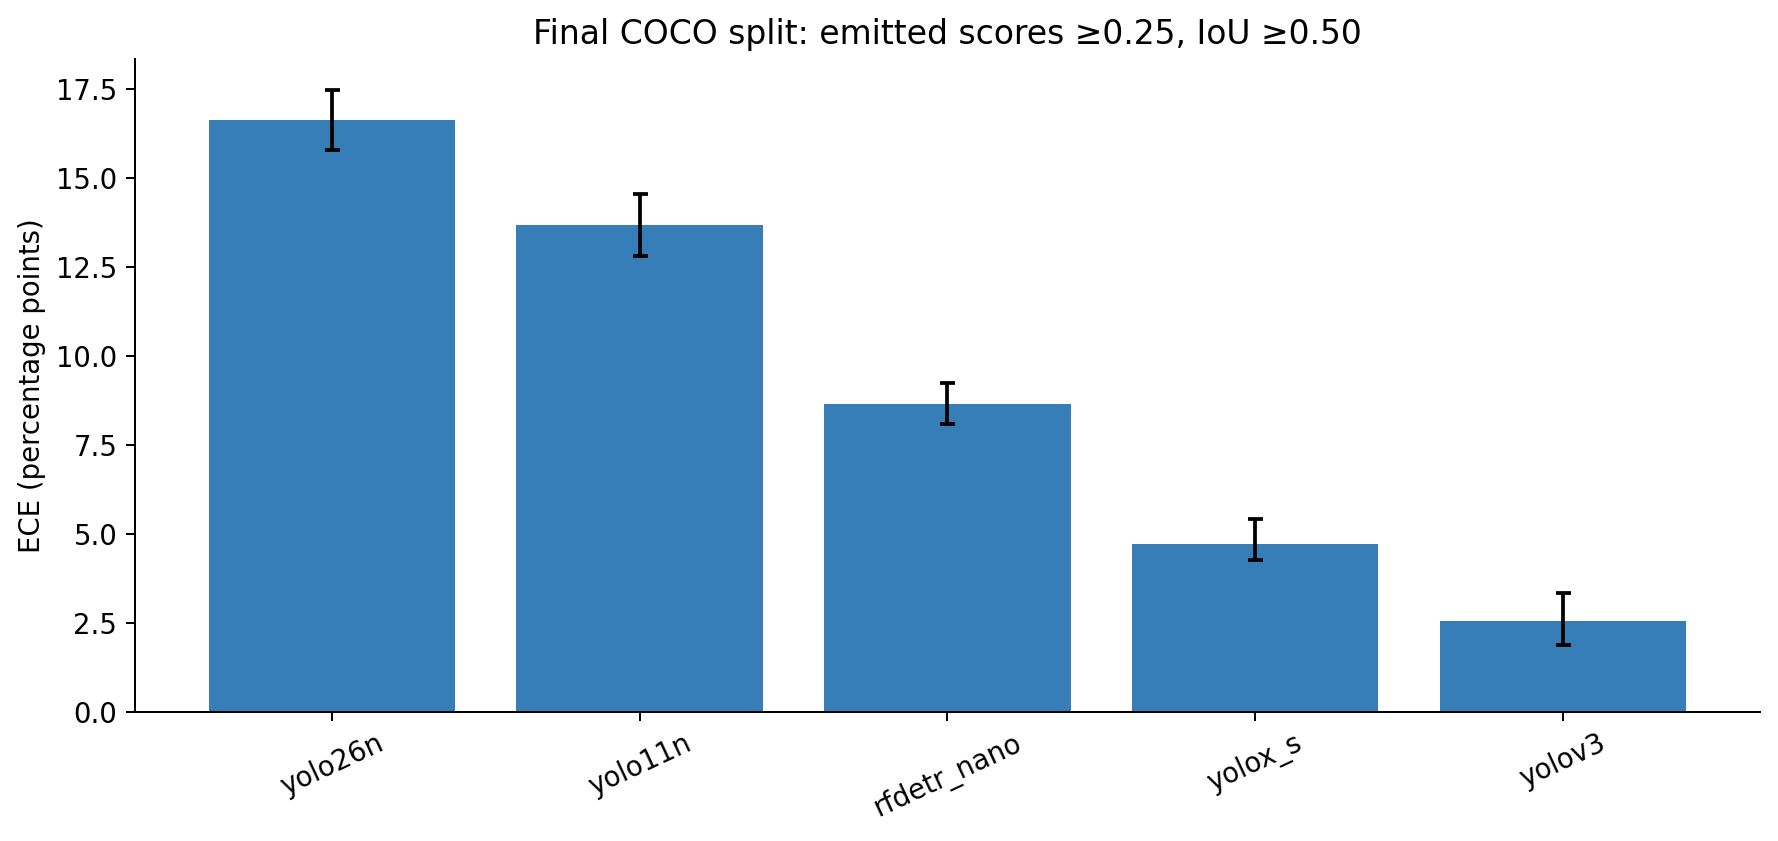
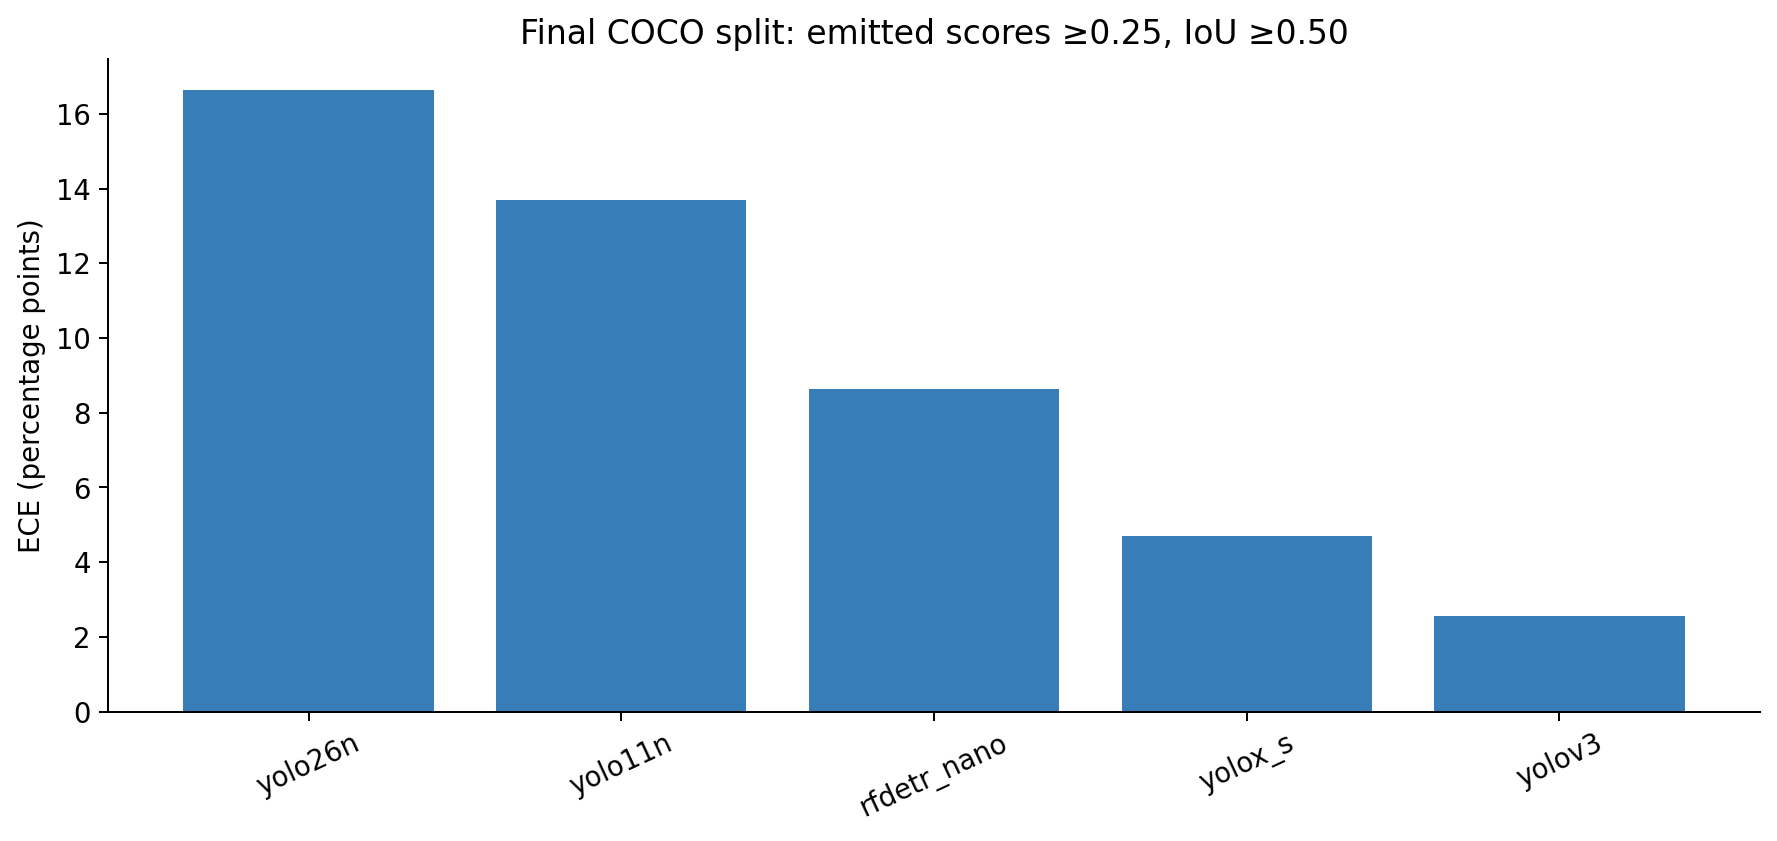
Remove error bars from article ECE comparison chart

diff --git a/src/model_calibration/reporting.py b/src/model_calibration/reporting.py
@@ -27,13 +27,8 @@ def figures(run,output):
         plt.close(fig)
     fig,ax=plt.subplots(figsize=(10,4.8))
     values=np.array([m['primary']['ece'] for m in final])
-    cis=np.array([m['primary']['ci']['ece'] for m in final])
-    # Percentile intervals need not contain the point estimate. Plot endpoints.
     x=np.arange(len(names))
     ax.bar(x,values*100,color='#377eb8')
-    ax.vlines(x,cis[:,0]*100,cis[:,1]*100,color='black')
-    ax.scatter(x,cis[:,0]*100,marker='_',color='black')
-    ax.scatter(x,cis[:,1]*100,marker='_',color='black')
     ax.set(xticks=x,xticklabels=names,ylabel='ECE (percentage points)',title='Final COCO split: emitted scores ≥0.25, IoU ≥0.50')
     ax.tick_params(axis='x',rotation=25)
     save(fig,'calibration_comparison')

diff --git a/article/article.md b/article/article.md
@@ -28,13 +28,13 @@ Each model kept its usual image processing and box filtering. Inference used FP3
 
 Expected calibration error, or ECE, gives one summary of the mismatch. Scores are divided into 15 equal-width groups. Each group’s average confidence is compared with its share of correct detections. ECE combines the absolute gaps, giving larger groups more weight. Lower ECE is better.
 
-![Calibration error for all five detectors, with 95% confidence intervals.](../results/figures/calibration_comparison.png)
+![Calibration error for all five detectors before correction.](../results/figures/calibration_comparison.png)
 
 **YOLOv3** had the lowest final ECE: **2.55 percentage points**. YOLOv3 has lower estimated ECE than all three recent candidates in this run. This resembles [Guo’s finding](https://arxiv.org/html/1706.04599#S3): newer models can be less calibrated than older ones, even when detection or classification improves.
 
 Why might this happen? Guo linked poorer calibration to larger networks, batch normalization, and weaker penalties on large weights. Training can also increase confidence without improving correctness. These are possible explanations, not proven causes here: model sizes and training differ. Guo’s newer classifiers were often overconfident; YOLO26n was underconfident. The similar pattern concerns calibration error, not the direction of the score mismatch.
 
-The error bars come from 1,000 samples drawn by image, keeping all detections from each image together. Nearby estimates should be treated cautiously. Extra checks change the score threshold, overlap requirement, and number of groups. The [full methodology and tables](../README.md) also include recall, negative log likelihood, and Brier score. The latter two measure probability errors in other ways, so the conclusion does not depend only on ECE.
+Confidence intervals in the full tables come from 1,000 samples drawn by image, keeping all detections from each image together. Nearby estimates should be treated cautiously. Extra checks change the score threshold, overlap requirement, and number of groups. The [full methodology and tables](../README.md) also include recall, negative log likelihood, and Brier score. The latter two measure probability errors in other ways, so the conclusion does not depend only on ECE.
 
 ![Before calibration: detection quality versus calibration error, using each model’s original scores.](../results/figures/quality_vs_calibration.png)
 

diff --git a/article/article.template.md b/article/article.template.md
@@ -28,13 +28,13 @@ Each model kept its usual image processing and box filtering. Inference used FP3
 
 Expected calibration error, or ECE, gives one summary of the mismatch. Scores are divided into 15 equal-width groups. Each group’s average confidence is compared with its share of correct detections. ECE combines the absolute gaps, giving larger groups more weight. Lower ECE is better.
 
-![Calibration error for all five detectors, with 95% confidence intervals.]({{figure_prefix}}/calibration_comparison.png)
+![Calibration error for all five detectors before correction.]({{figure_prefix}}/calibration_comparison.png)
 
 **{{best}}** had the lowest final ECE: **{{best_ece}} percentage points**. {{age_result}} This resembles [Guo’s finding](https://arxiv.org/html/1706.04599#S3): newer models can be less calibrated than older ones, even when detection or classification improves.
 
 Why might this happen? Guo linked poorer calibration to larger networks, batch normalization, and weaker penalties on large weights. Training can also increase confidence without improving correctness. These are possible explanations, not proven causes here: model sizes and training differ. Guo’s newer classifiers were often overconfident; YOLO26n was underconfident. The similar pattern concerns calibration error, not the direction of the score mismatch.
 
-The error bars come from 1,000 samples drawn by image, keeping all detections from each image together. Nearby estimates should be treated cautiously. Extra checks change the score threshold, overlap requirement, and number of groups. The [full methodology and tables]({{methodology}}) also include recall, negative log likelihood, and Brier score. The latter two measure probability errors in other ways, so the conclusion does not depend only on ECE.
+Confidence intervals in the full tables come from 1,000 samples drawn by image, keeping all detections from each image together. Nearby estimates should be treated cautiously. Extra checks change the score threshold, overlap requirement, and number of groups. The [full methodology and tables]({{methodology}}) also include recall, negative log likelihood, and Brier score. The latter two measure probability errors in other ways, so the conclusion does not depend only on ECE.
 
 ![Before calibration: detection quality versus calibration error, using each model’s original scores.]({{figure_prefix}}/quality_vs_calibration.png)
 

diff --git a/article/captions.md b/article/captions.md
@@ -1,6 +1,6 @@
 Opening figure: **Average confidence and actual correctness** — Mean original score and observed precision for each checkpoint on the final 2,500 images. Original scores ≥0.25, correct class and COCO IoU ≥0.50, ignored matches excluded. Values are percentages. Agreement of averages alone does not establish calibration within score groups.
 
-1. **Calibration comparison** — Final-partition precision ECE at original scores ≥0.25, correct-class COCO IoU ≥0.50, 15 equal-width bins. Bars show point estimates; whiskers show 95% image-bootstrap percentile intervals (1,000 samples). Specific checkpoint and native inference comparisons.
+1. **Calibration comparison** — Final-partition precision ECE at original scores ≥0.25, correct-class COCO IoU ≥0.50, 15 equal-width bins. Bars show point estimates. The full results tables retain 95% image-bootstrap percentile intervals (1,000 samples). Specific checkpoint and native inference comparisons.
 2. **Correction** — Selected checkpoint before correction, temperature correction, and positive-slope Platt correction. The method chosen by grouped calibration validation is identified in the article text. All panels use the same final detection population; no corrected-score filtering.
 3. **Detection quality and calibration, before correction** — Original scores only. Placed in the baseline comparison section, before the correction results. COCO mAP on the cached ≥0.001 scores versus ECE on original ≥0.25 scores. Association does not establish a causal effect of architecture age.
 
